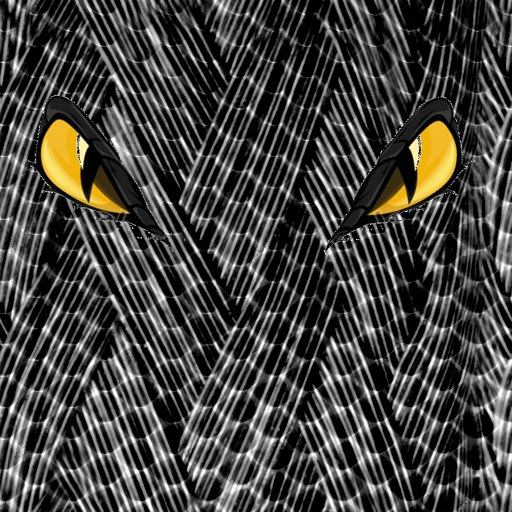
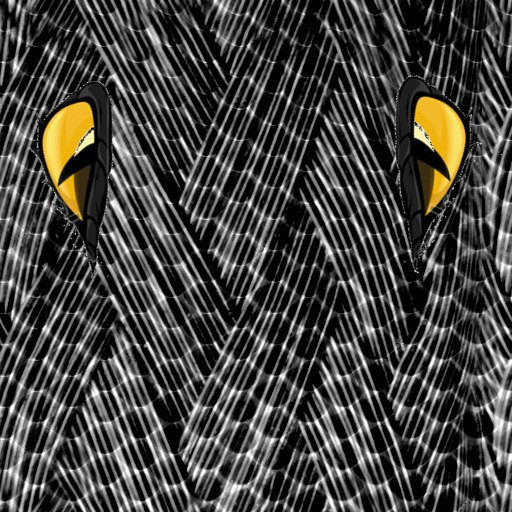
cool eyes

Changed region(s): [[0.625, 0.125, 0.9375, 0.5312], [0.0625, 0.1562, 0.3438, 0.5312]]

diff --git a/snakeTail.js b/snakeTail.js
@@ -13,7 +13,7 @@ function configureSnakeTail (radius, height, slices, texture) {
     var texCoords = [];
     
     var bottom = -height / 2.0, top = height / 2.0;
-    var vertex = vec4 (0.0, radius, bottom, 1.0);
+    var vertex = vec4 (0.0, radius * 1.5, bottom, 1.0);
     for (var i = 0; i < slices; i++) {
         var angle = i * 2.0 * Math.PI / slices;
         var nextAngle = (i + 1) * 2.0 * Math.PI / slices;

diff --git a/main.js b/main.js
@@ -58,7 +58,7 @@ window.onload = function () {
     if (!gl) alert("WebGL isn't available");
 
     gl.viewport(0, 0, canvas.width, canvas.height);
-    gl.clearColor(1.0, 1.0, 1.0, 1.0);
+    gl.clearColor(0.0, 0.0, 0.0, 1.0);
 
     gl.enable(gl.DEPTH_TEST);
 
